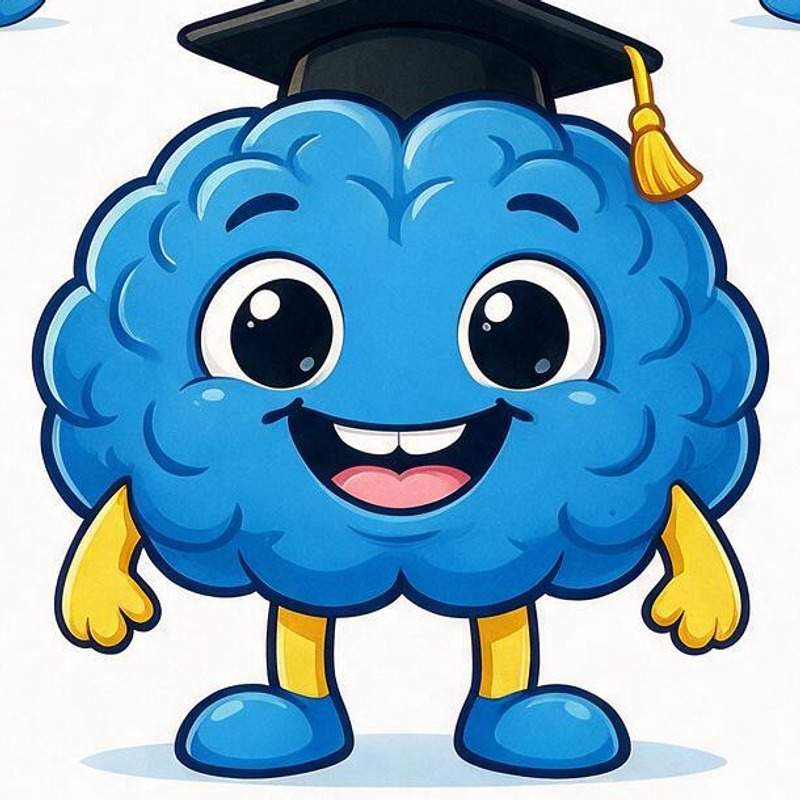
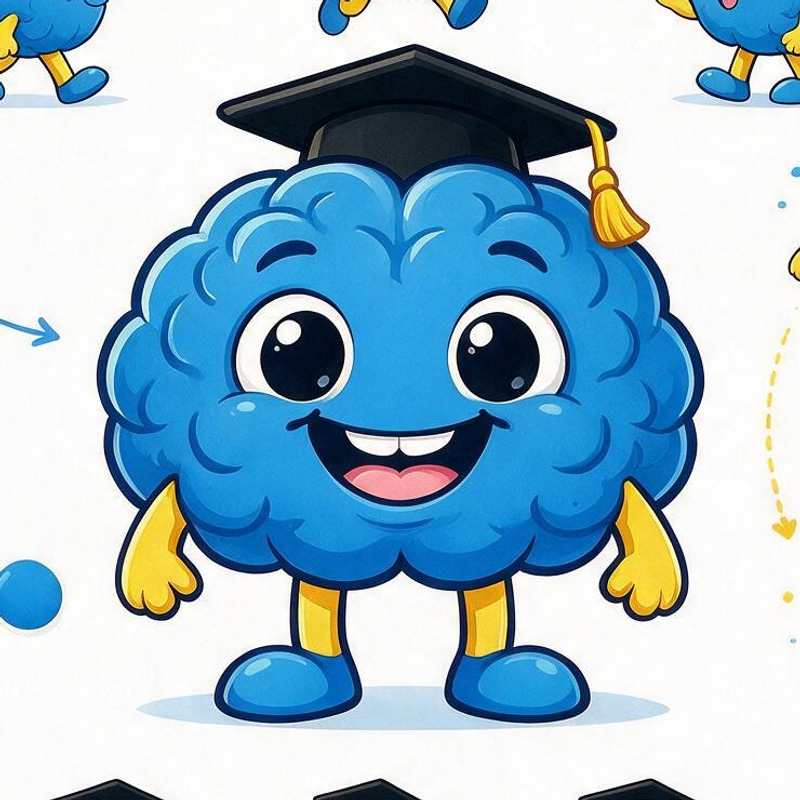
fix: permite a ADMIN entrar al juego de Brito para revisarlo
Se crea (una sola vez) una cuenta de estudiante espejo ligada al correo
del admin, con su propio perfil/racha/XP, para poder jugar el flujo
completo sin necesitar una cuenta de estudiante real. También se
recorta la imagen de Brito con más margen para que el gorro, los pies
y las manos no queden cortados dentro del círculo.

diff --git a/web/src/app/brito/acciones.ts b/web/src/app/brito/acciones.ts
@@ -9,10 +9,32 @@ const HORAS_POR_CORAZON = 4
 const XP_POR_CORRECTA = 10
 const XP_BONO_PERFECTO = 20
 
-async function estudianteActual(): Promise<string | null> {
+// Devuelve el EstudianteExamen.id a usar para el juego. Estudiantes reales
+// usan su propio id de sesión. Un ADMIN puede entrar a revisar el juego —
+// se le crea (una sola vez) una cuenta de estudiante "espejo" ligada a su
+// correo de staff, para que tenga su propio perfil/racha/XP de prueba.
+export async function obtenerEstudianteIdActual(): Promise<string | null> {
   const session = await auth()
-  if ((session?.user as any)?.role !== 'ESTUDIANTE') return null
-  return session!.user.id
+  const role = (session?.user as any)?.role
+  if (role === 'ESTUDIANTE') return session!.user.id
+
+  if (role === 'ADMIN' && session?.user?.email) {
+    let estudiante = await prisma.estudianteExamen.findFirst({
+      where: { email: { equals: session.user.email, mode: 'insensitive' } },
+    })
+    if (!estudiante) {
+      estudiante = await prisma.estudianteExamen.create({
+        data: {
+          email: session.user.email,
+          nombre: `${session.user.name ?? 'Admin'} (preview)`,
+          documentoHash: hashDocumento(`brito-admin-preview:${session.user.id}`),
+        },
+      })
+    }
+    return estudiante.id
+  }
+
+  return null
 }
 
 // ── Registro público ─────────────────────────────────────────────────────
@@ -49,7 +71,7 @@ async function calcularCorazones(perfil: { corazones: number; corazonesAt: Date;
 }
 
 export async function obtenerPerfilActual() {
-  const estudianteId = await estudianteActual()
+  const estudianteId = await obtenerEstudianteIdActual()
   if (!estudianteId) return null
 
   let perfil = await prisma.britoPerfil.findUnique({ where: { estudianteId } })
@@ -64,7 +86,7 @@ export async function obtenerPerfilActual() {
 
 // ── Responder una pregunta (valida server-side, resta corazón si falla) ──
 export async function responderPregunta(preguntaId: string, opcionElegida: string) {
-  const estudianteId = await estudianteActual()
+  const estudianteId = await obtenerEstudianteIdActual()
   if (!estudianteId) return { error: 'No autorizado' }
 
   const perfil = await obtenerPerfilActual()
@@ -96,7 +118,7 @@ export async function responderPregunta(preguntaId: string, opcionElegida: strin
 
 // ── Finalizar lección: XP, racha, registro de completada ────────────────
 export async function finalizarLeccion(leccionId: string, correctas: number, total: number) {
-  const estudianteId = await estudianteActual()
+  const estudianteId = await obtenerEstudianteIdActual()
   if (!estudianteId) return { error: 'No autorizado' }
 
   const perfil = await prisma.britoPerfil.findUnique({ where: { estudianteId } })

diff --git a/web/src/app/brito/page.tsx b/web/src/app/brito/page.tsx
@@ -11,7 +11,6 @@ export const metadata = {
 export default async function BritoLandingPage() {
   const session = await auth()
   const role = (session?.user as any)?.role as 'ADMIN' | 'VENDEDOR' | 'ESTUDIANTE' | undefined
-  const yaLogueado = role === 'ESTUDIANTE' || role === 'ADMIN'
 
   return (
     <main
@@ -47,12 +46,19 @@ export default async function BritoLandingPage() {
             <span className="flex items-center gap-1.5 text-xs font-semibold"><Trophy className="w-4 h-4 text-amber-500" /> Ranking</span>
           </div>
 
-          {yaLogueado ? (
+          {role === 'ESTUDIANTE' ? (
             <Link
               href="/brito/mapa"
               className="w-full block text-center bg-gradient-to-r from-[#ffb703] to-[#fb8500] hover:brightness-105 text-white font-semibold rounded-xl py-2.5 text-sm transition-all active:scale-[0.97] shadow-[0_8px_20px_-6px_rgba(251,133,0,0.5)]"
             >
               Ir a mis lecciones
+            </Link>
+          ) : role === 'ADMIN' ? (
+            <Link
+              href="/brito-admin"
+              className="w-full block text-center bg-gradient-to-r from-[#ffb703] to-[#fb8500] hover:brightness-105 text-white font-semibold rounded-xl py-2.5 text-sm transition-all active:scale-[0.97] shadow-[0_8px_20px_-6px_rgba(251,133,0,0.5)]"
+            >
+              Ir al panel de administración
             </Link>
           ) : (
             <div className="flex flex-col gap-2">

diff --git a/web/src/app/brito/ranking/page.tsx b/web/src/app/brito/ranking/page.tsx
@@ -2,16 +2,15 @@ import { auth } from '@/auth'
 import { redirect } from 'next/navigation'
 import Link from 'next/link'
 import { ArrowLeft, Trophy, Medal } from 'lucide-react'
-import { obtenerRanking } from '../acciones'
+import { obtenerRanking, obtenerEstudianteIdActual } from '../acciones'
 
 const MEDALLA = ['text-amber-400', 'text-slate-300', 'text-amber-700']
 
 export default async function RankingBritoPage() {
   const session = await auth()
-  if ((session?.user as any)?.role !== 'ESTUDIANTE') redirect('/brito')
+  if (!['ESTUDIANTE', 'ADMIN'].includes((session?.user as any)?.role)) redirect('/brito')
 
-  const ranking = await obtenerRanking()
-  const miId = session!.user.id
+  const [ranking, miId] = await Promise.all([obtenerRanking(), obtenerEstudianteIdActual()])
 
   return (
     <main className="min-h-dvh" style={{ background: 'linear-gradient(180deg, #003060 0%, #0b1f3a 100%)' }}>

diff --git a/web/src/app/brito/mapa/page.tsx b/web/src/app/brito/mapa/page.tsx
@@ -8,14 +8,15 @@ import { Flame, Heart, Trophy, Lock, Check } from 'lucide-react'
 import { CerrarSesionIcono } from '../CerrarSesionIcono'
 
 const MATERIAS = ['Lectura Crítica', 'Matemáticas', 'Sociales y Ciudadanas', 'Ciencias Naturales', 'Inglés']
+const ROLES_PERMITIDOS = ['ESTUDIANTE', 'ADMIN']
 
 export default async function MapaBritoPage() {
   const session = await auth()
-  if ((session?.user as any)?.role !== 'ESTUDIANTE') redirect('/brito')
+  if (!ROLES_PERMITIDOS.includes((session?.user as any)?.role)) redirect('/brito')
 
-  const estudianteId = session!.user.id
   const perfil = await obtenerPerfilActual()
   if (!perfil) redirect('/brito')
+  const estudianteId = perfil.estudianteId
 
   const [lecciones, completadas] = await Promise.all([
     prisma.britoLeccion.findMany({

diff --git a/web/src/app/brito/leccion/[id]/page.tsx b/web/src/app/brito/leccion/[id]/page.tsx
@@ -7,7 +7,7 @@ import { TomarLeccion } from './TomarLeccion'
 export default async function LeccionPage({ params }: { params: Promise<{ id: string }> }) {
   const { id } = await params
   const session = await auth()
-  if ((session?.user as any)?.role !== 'ESTUDIANTE') redirect('/brito')
+  if (!['ESTUDIANTE', 'ADMIN'].includes((session?.user as any)?.role)) redirect('/brito')
 
   const perfil = await obtenerPerfilActual()
   if (!perfil) redirect('/brito')

diff --git a/web/src/app/brito/leccion/[id]/resultado/page.tsx b/web/src/app/brito/leccion/[id]/resultado/page.tsx
@@ -10,7 +10,7 @@ export default async function ResultadoLeccionPage({
   searchParams: Promise<{ correctas?: string; total?: string; xp?: string; racha?: string }>
 }) {
   const session = await auth()
-  if ((session?.user as any)?.role !== 'ESTUDIANTE') redirect('/brito')
+  if (!['ESTUDIANTE', 'ADMIN'].includes((session?.user as any)?.role)) redirect('/brito')
 
   const sp = await searchParams
   const correctas = Number(sp.correctas ?? 0)